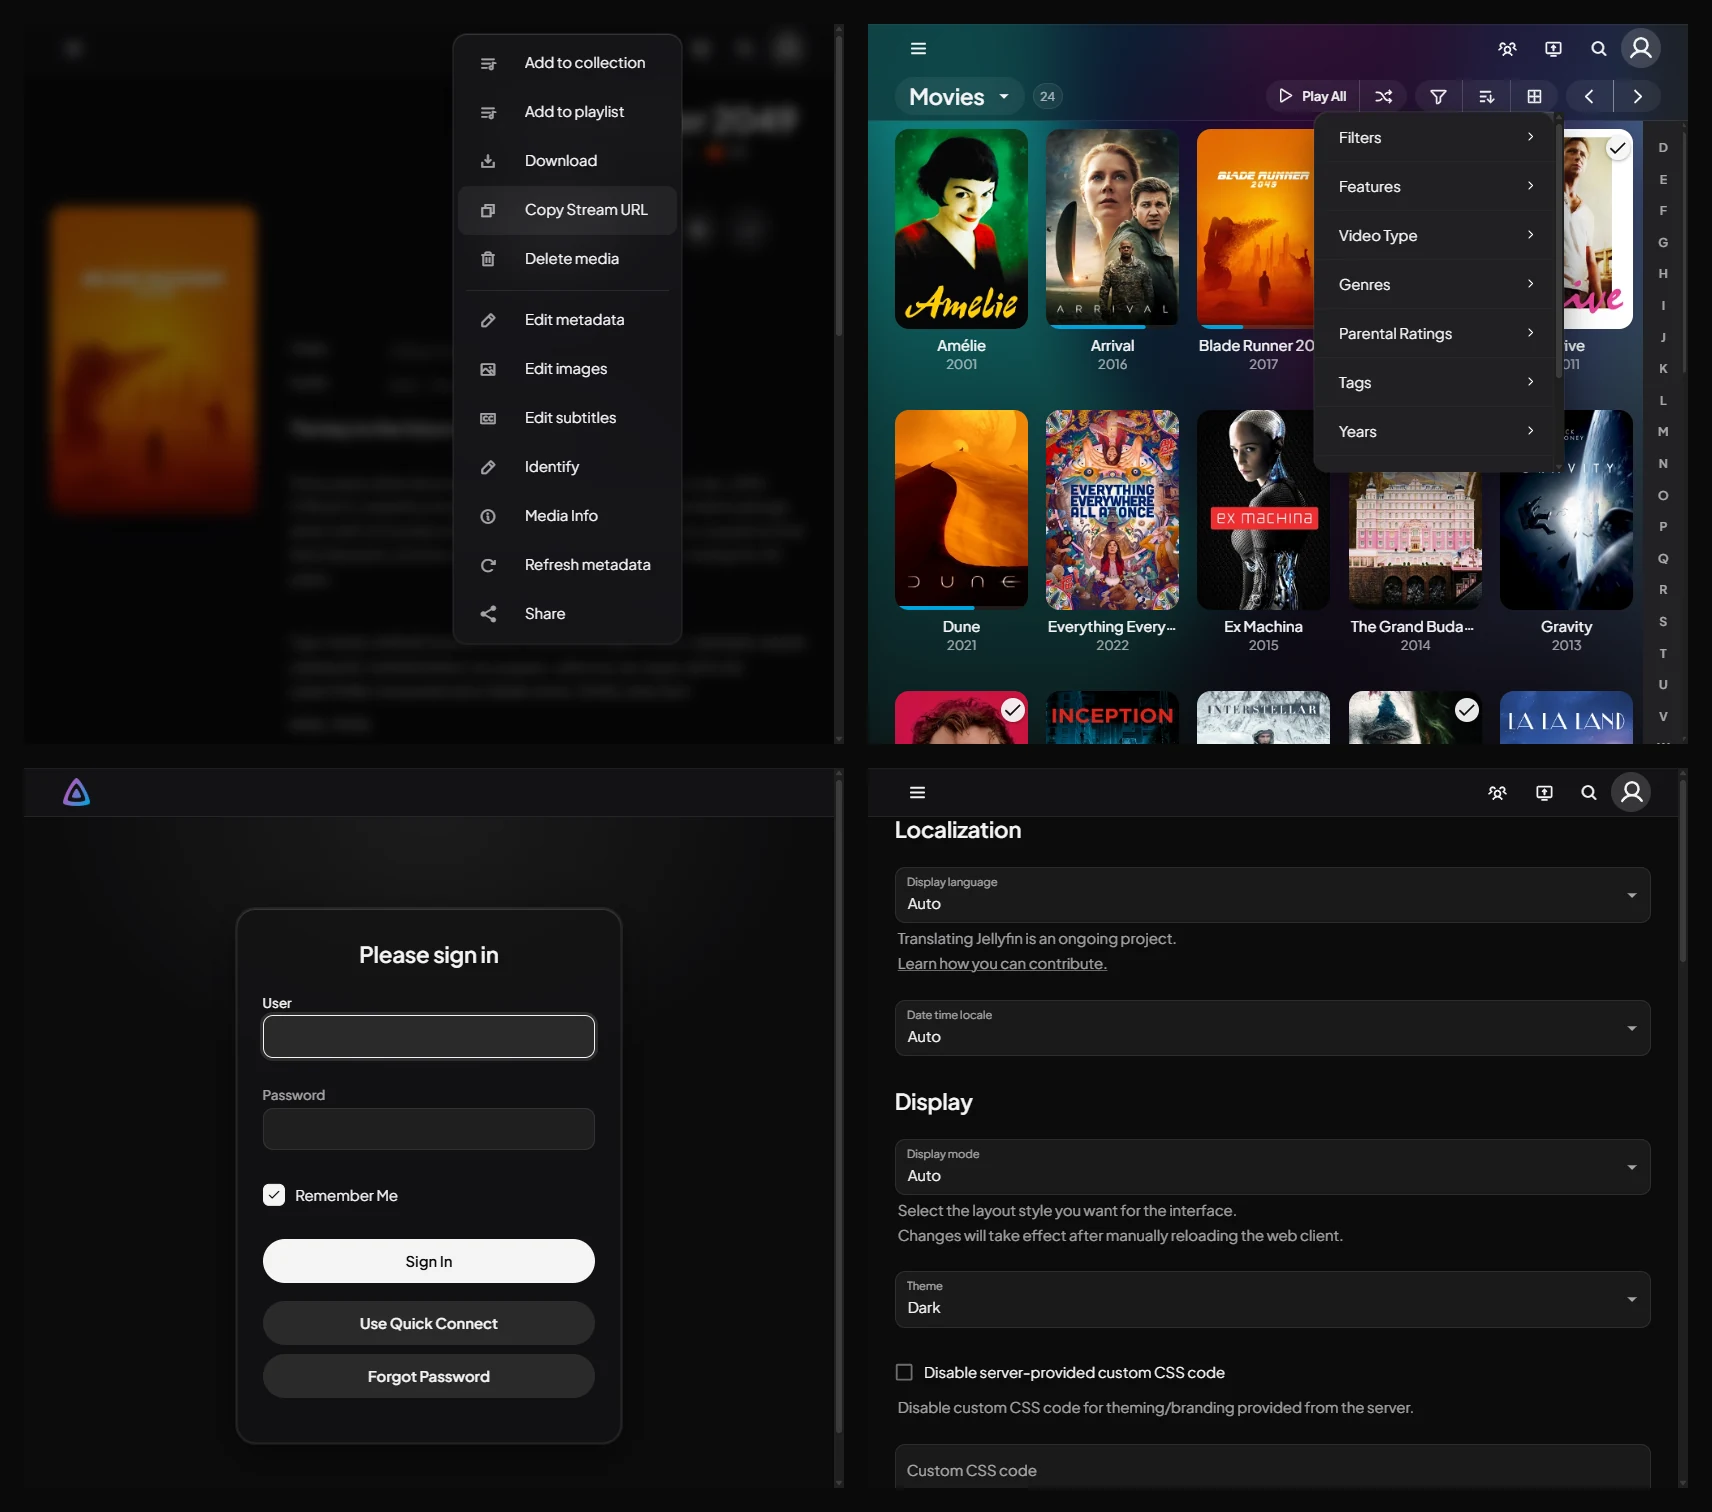
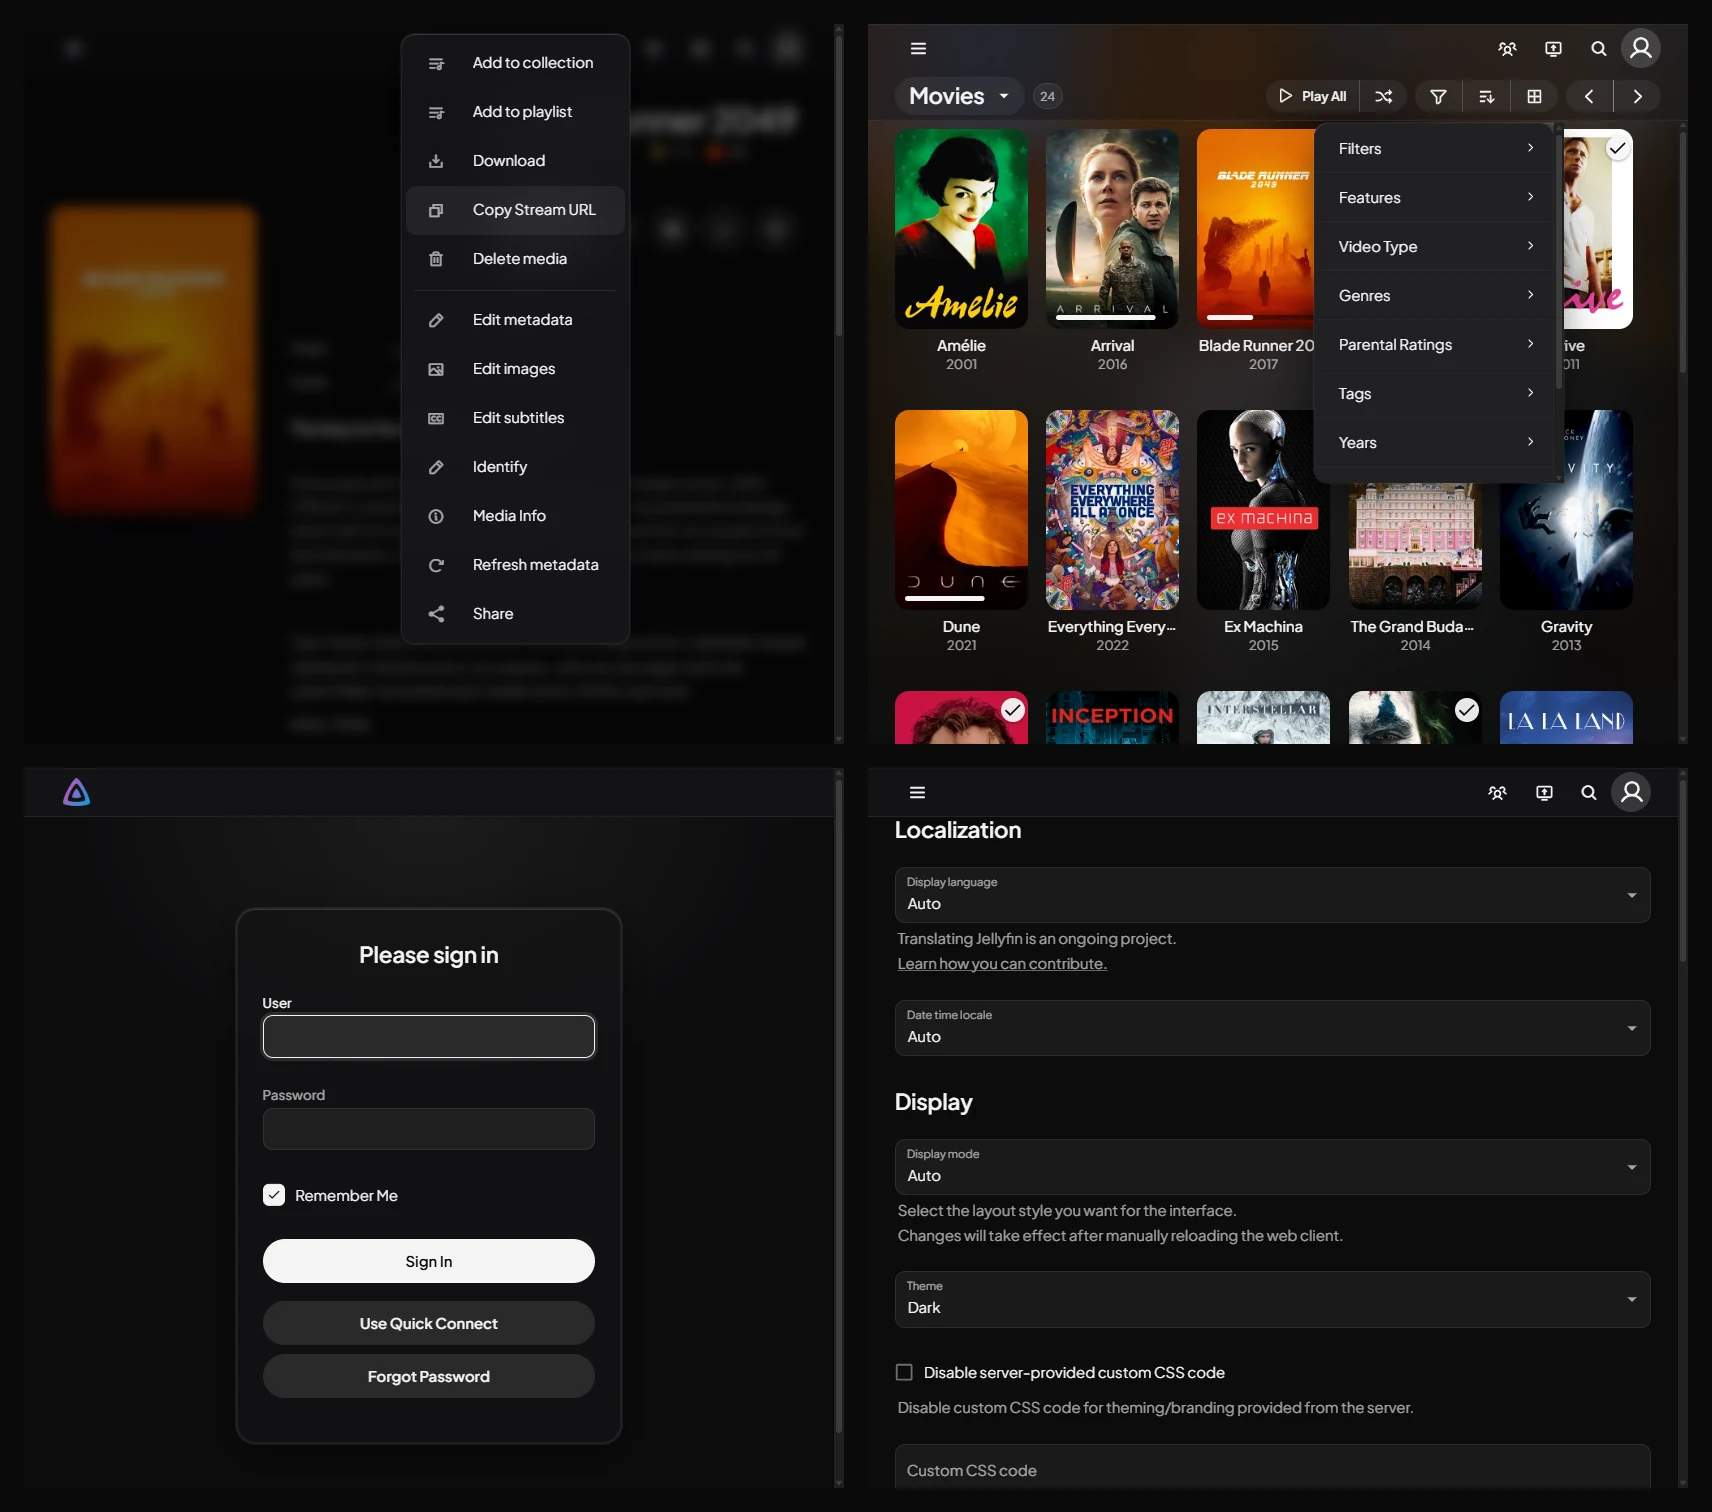
v3.1.3 : progression des bibliotheques, menus decolles, titre centre, index A-Z retire
- Cartes de bibliotheque : meme barre de progression que l'accueil (blanche,
  rail sombre flou) au lieu du bleu #00a4dc code en dur par le client.
- Menus MUI (profil, vues de la bibliotheque) decolles de leur declencheur.
- Titre de la bibliotheque (« Movies ▾ ») : texte et fleche remontes pour
  etre centres a l'encre dans leur pastille (mesure a 4x).
- Libelle du bouton Lecture : « Play » par defaut, « Lecture » en francais.
- Index alphabetique a droite masque : il prenait une colonne et debordait
  de l'ecran sur certains telephones.
- Captures du README refaites.

Changed region(s): [[0.4953, 0.0, 0.8978, 0.4663], [0.8049, 0.0, 0.9907, 0.4663], [0.2167, 0.0311, 0.4025, 0.4352]]

diff --git a/dist/theme.css b/dist/theme.css
@@ -1,6 +1,6 @@
 /* =====================================================================
    Theme Jellyfin, par matqueme
-   Version 3.1.2, pour Jellyfin 12.x, layout Modern
+   Version 3.1.3, pour Jellyfin 12.x, layout Modern
 
    FICHIER CONSTRUIT : NE PAS EDITER.
    Genere par build.py depuis src/. Toute modification faite ici sera
@@ -143,7 +143,13 @@
   --icon-scale: 0.85;
 
   /* Libelle du bouton Lecture de la page d'item. Garder les guillemets :
-     c'est une valeur de content. */
+     c'est une valeur de content. Le theme l'ecrit lui-meme : « Play » par
+     defaut, « Lecture » quand l'interface est en francais (:lang(fr), posee
+     sur <html> par le client). */
+  --play-label: "Play";
+}
+
+:root:lang(fr) {
   --play-label: "Lecture";
 }
 
@@ -1211,6 +1217,13 @@ a[data-role="button"]:focus {
   box-shadow: var(--shadow-float);
 }
 
+/* Un menu ne se colle pas a son declencheur : MUI le place au pixel pres
+   sous le bouton, ce qui le fait toucher le bord du bouton et sa pilule. */
+.MuiMenu-paper,
+.MuiPopover-paper {
+  margin-top: 0.75rem;
+}
+
 .MuiMenu-list,
 .MuiAutocomplete-listbox {
   padding: 0.35em;
@@ -2129,6 +2142,28 @@ a[data-role="button"]:focus {
   border-radius: var(--r-pill);
 }
 
+/* Cartes de bibliotheque (MUI) : meme barre que ci-dessus. Le client lui
+   donne un rail blanc a 10 % colle aux bords et sa couleur bleue en dur
+   (#00a4dc), ce qui la rendait differente de celle de l'accueil. */
+.itemLinearProgress {
+  background-color: rgb(0 0 0 / 0.45);
+  bottom: 9px;
+  height: 5px;
+  left: 10px;
+  right: 10px;
+}
+
+@supports (backdrop-filter: blur(1px)) or (-webkit-backdrop-filter: blur(1px)) {
+  .itemLinearProgress {
+    -webkit-backdrop-filter: blur(6px);
+    backdrop-filter: blur(6px);
+  }
+}
+
+.itemLinearProgress .MuiLinearProgress-bar {
+  background-color: var(--primary);
+}
+
 /* Enregistrement en cours (TV) : la seule barre qui garde une couleur. */
 .itemProgressBarForeground-recording {
   background-color: var(--danger);
@@ -2359,6 +2394,28 @@ a[data-role="button"]:focus {
 #tvRecommendedPage,
 #musicRecommendedPage {
   overflow-x: hidden;
+}
+
+/* Barre de la bibliotheque : titre, fleche et compteur centres a l'encre.
+   Les boites sont centrees (mesure : 0.00px d'ecart) mais Plus Jakarta Sans
+   pose sa ligne de base un peu bas dans la sienne : a 4x, le texte « Movies »
+   etait 0.75px sous le centre de sa pastille, la fleche 0.4px. On remonte chacun de cet ecart. Les chiffres du compteur
+   (0.4px) ne sont pas touches : le navigateur cale le texte sur le pixel, et
+   tout decalage fractionnaire les envoyait trop haut. */
+.MuiButton-root > .MuiTypography-h2 {
+  position: relative;
+  top: -0.03em;
+}
+
+.MuiButton-root > .MuiButton-endIcon {
+  transform: translateY(-0.4px);
+}
+
+/* Selecteur alphabetique des bibliotheques : masque. Il prend une colonne
+   de la page, deborde de l'ecran sur certains telephones, et sert peu : la
+   recherche et le tri font le meme travail. */
+.alphaPicker-fixed-right {
+  display: none !important;
 }
 
 /* Selecteur alphabetique des bibliotheques. */

diff --git a/src/41-rangees.css b/src/41-rangees.css
@@ -117,6 +117,28 @@
   overflow-x: hidden;
 }
 
+/* Barre de la bibliotheque : titre, fleche et compteur centres a l'encre.
+   Les boites sont centrees (mesure : 0.00px d'ecart) mais Plus Jakarta Sans
+   pose sa ligne de base un peu bas dans la sienne : a 4x, le texte « Movies »
+   etait 0.75px sous le centre de sa pastille, la fleche 0.4px. On remonte chacun de cet ecart. Les chiffres du compteur
+   (0.4px) ne sont pas touches : le navigateur cale le texte sur le pixel, et
+   tout decalage fractionnaire les envoyait trop haut. */
+.MuiButton-root > .MuiTypography-h2 {
+  position: relative;
+  top: -0.03em;
+}
+
+.MuiButton-root > .MuiButton-endIcon {
+  transform: translateY(-0.4px);
+}
+
+/* Selecteur alphabetique des bibliotheques : masque. Il prend une colonne
+   de la page, deborde de l'ecran sur certains telephones, et sert peu : la
+   recherche et le tri font le meme travail. */
+.alphaPicker-fixed-right {
+  display: none !important;
+}
+
 /* Selecteur alphabetique des bibliotheques. */
 .alphaPickerButton {
   border-radius: var(--r-pill);

diff --git a/src/40-cartes.css b/src/40-cartes.css
@@ -268,6 +268,28 @@
   border-radius: var(--r-pill);
 }
 
+/* Cartes de bibliotheque (MUI) : meme barre que ci-dessus. Le client lui
+   donne un rail blanc a 10 % colle aux bords et sa couleur bleue en dur
+   (#00a4dc), ce qui la rendait differente de celle de l'accueil. */
+.itemLinearProgress {
+  background-color: rgb(0 0 0 / 0.45);
+  bottom: 9px;
+  height: 5px;
+  left: 10px;
+  right: 10px;
+}
+
+@supports (backdrop-filter: blur(1px)) or (-webkit-backdrop-filter: blur(1px)) {
+  .itemLinearProgress {
+    -webkit-backdrop-filter: blur(6px);
+    backdrop-filter: blur(6px);
+  }
+}
+
+.itemLinearProgress .MuiLinearProgress-bar {
+  background-color: var(--primary);
+}
+
 /* Enregistrement en cours (TV) : la seule barre qui garde une couleur. */
 .itemProgressBarForeground-recording {
   background-color: var(--danger);

diff --git a/src/01-tokens.css b/src/01-tokens.css
@@ -116,7 +116,13 @@
   --icon-scale: 0.85;
 
   /* Libelle du bouton Lecture de la page d'item. Garder les guillemets :
-     c'est une valeur de content. */
+     c'est une valeur de content. Le theme l'ecrit lui-meme : « Play » par
+     defaut, « Lecture » quand l'interface est en francais (:lang(fr), posee
+     sur <html> par le client). */
+  --play-label: "Play";
+}
+
+:root:lang(fr) {
   --play-label: "Lecture";
 }
 

diff --git a/src/23-surfaces.css b/src/23-surfaces.css
@@ -128,6 +128,13 @@
   box-shadow: var(--shadow-float);
 }
 
+/* Un menu ne se colle pas a son declencheur : MUI le place au pixel pres
+   sous le bouton, ce qui le fait toucher le bord du bouton et sa pilule. */
+.MuiMenu-paper,
+.MuiPopover-paper {
+  margin-top: 0.75rem;
+}
+
 .MuiMenu-list,
 .MuiAutocomplete-listbox {
   padding: 0.35em;

diff --git a/CHANGELOG.md b/CHANGELOG.md
@@ -7,6 +7,34 @@ title of each version.
 The history up to 3.1.2 was originally written in French and translated
 afterwards. File names under `src/` are French, and appear as they are.
 
+## [3.1.3] - 2026-10-02 - Jellyfin 12.x, Modern layout
+
+### Fixed
+
+- Progress bar of library cards: it was blue (the client hard-codes
+  `#00a4dc` on its MUI progress bar) on a thin white rail stuck to the edges
+  of the poster, unlike the one on the home page. It now uses the same
+  design: white bar on a dark blurred rail, 5px high, set off from the edges.
+- Menus stuck to their trigger: MUI places a menu right under its button, so
+  the profile menu and the library's view menu (Movies, Suggestions…) touched
+  the edge of the button. They now sit 0.75rem lower.
+
+- Library title ("Movies ▾"): the text and the arrow sat low in their pill.
+  The boxes are centered, but Plus Jakarta Sans puts its baseline low in its
+  line box: measured on the ink at 4x, the text was 0.75px under the center of
+  the pill and the arrow 0.4px. Both are moved back up. On a phone (2x and 3x
+  screens) they are now within one screen pixel of the center.
+
+- Play button label always in French: the theme writes it itself
+  (`--play-label`) and it read "Lecture" whatever the interface language. It is
+  now "Play", and "Lecture" when the interface is in French.
+
+### Removed
+
+- The A to Z index on the right of libraries (`.alphaPicker-fixed-right`). It
+  took a column of the page, overflowed the screen on some phones, and adds
+  little next to search and sorting.
+
 ## [3.1.2] - 2026-09-30 - Jellyfin 12.x, Modern layout
 
 ### Fixed

diff --git a/README.fr.md b/README.fr.md
@@ -47,7 +47,7 @@ Un seul dessin pour les anciens composants du client et pour ceux de MUI.
 Tableau de bord → Général → **CSS personnalisé**, une seule ligne :
 
 ```css
-@import url('https://cdn.jsdelivr.net/gh/matqueme/jellyfin-theme@v3.1.2/dist/theme.css');
+@import url('https://cdn.jsdelivr.net/gh/matqueme/jellyfin-theme@v3.1.3/dist/theme.css');
 ```
 
 Puis `Ctrl+F5` sur le client. L'`@import` doit rester la première chose du
@@ -94,7 +94,7 @@ Phosphor) et les SVG Phosphor des icônes MUI restent chargés depuis un CDN.
 
 | Thème | Jellyfin | Base |
 |---|---|---|
-| `v3.1.2` | 12.x, layout Modern (+ app Samsung, client 10.11) | aucune |
+| `v3.1.2` à `v3.1.3` | 12.x, layout Modern (+ app Samsung, client 10.11) | aucune |
 | `v3.0.0` à `v3.1.1` | 12.x, layout Modern | aucune |
 | `v2.0.0` | 12.x | [Ultrachromic `1398af2`](https://github.com/CTalvio/Ultrachromic/tree/1398af21b8fe120a972bd00942ad60a76a932647) |
 | `v1.3.0` | 10.11.x | [Ultrachromic `fa158a2`](https://github.com/CTalvio/Ultrachromic/tree/fa158a241cb24298c9996af3cf6460ae2f9d522f) |

diff --git a/README.md b/README.md
@@ -46,7 +46,7 @@ One design for the client's legacy components and for MUI's.
 Dashboard → General → **Custom CSS**, a single line:
 
 ```css
-@import url('https://cdn.jsdelivr.net/gh/matqueme/jellyfin-theme@v3.1.2/dist/theme.css');
+@import url('https://cdn.jsdelivr.net/gh/matqueme/jellyfin-theme@v3.1.3/dist/theme.css');
 ```
 
 Then `Ctrl+F5` in the client. The `@import` must stay the first thing in the
@@ -93,7 +93,7 @@ Phosphor) and the Phosphor SVGs used for MUI icons are still loaded from a CDN.
 
 | Theme | Jellyfin | Base |
 |---|---|---|
-| `v3.1.2` | 12.x, Modern layout (+ Samsung app, 10.11 client) | none |
+| `v3.1.2` to `v3.1.3` | 12.x, Modern layout (+ Samsung app, 10.11 client) | none |
 | `v3.0.0` to `v3.1.1` | 12.x, Modern layout | none |
 | `v2.0.0` | 12.x | [Ultrachromic `1398af2`](https://github.com/CTalvio/Ultrachromic/tree/1398af21b8fe120a972bd00942ad60a76a932647) |
 | `v1.3.0` | 10.11.x | [Ultrachromic `fa158a2`](https://github.com/CTalvio/Ultrachromic/tree/fa158a241cb24298c9996af3cf6460ae2f9d522f) |

diff --git a/docs/personnalisation.md b/docs/personnalisation.md
@@ -22,7 +22,7 @@ retoucher ce fichier.
 | `--r-xs` à `--r-lg`, `--r-pill` | Rayons : pastilles, champs, cartes, dialogues, boutons |
 | `--ring` | Anneau de focus et de survol des cartes |
 | `--icon-scale` | Taille des icônes Phosphor, qui remplissent plus leur cadre que Material |
-| `--play-label` | Libellé du bouton Lecture. Garder les guillemets : c'est une valeur de `content` |
+| `--play-label` | Libellé du bouton Lecture, écrit par le thème. `"Play"` par défaut, `"Lecture"` quand l'interface est en français (`:root:lang(fr)`). Garder les guillemets : c'est une valeur de `content` |
 
 Les couleurs utilisées en transparence existent aussi en canaux
 (`--primary-canal: 244 244 245`), la syntaxe qu'attend MUI pour ses

diff --git a/docs/customization.md b/docs/customization.md
@@ -22,7 +22,7 @@ editing that file.
 | `--r-xs` to `--r-lg`, `--r-pill` | Radii: chips, fields, cards, dialogs, buttons |
 | `--ring` | Focus ring, and hover ring of cards |
 | `--icon-scale` | Size of Phosphor icons, which fill their box more than Material's |
-| `--play-label` | Label of the Play button. Keep the quotes: it is a `content` value |
+| `--play-label` | Label of the Play button, written by the theme. `"Play"` by default, `"Lecture"` when the interface is in French (`:root:lang(fr)`). Keep the quotes: it is a `content` value |
 
 Colors used with transparency also exist as channels
 (`--primary-canal: 244 244 245`), the syntax MUI expects for its `*Channel`
